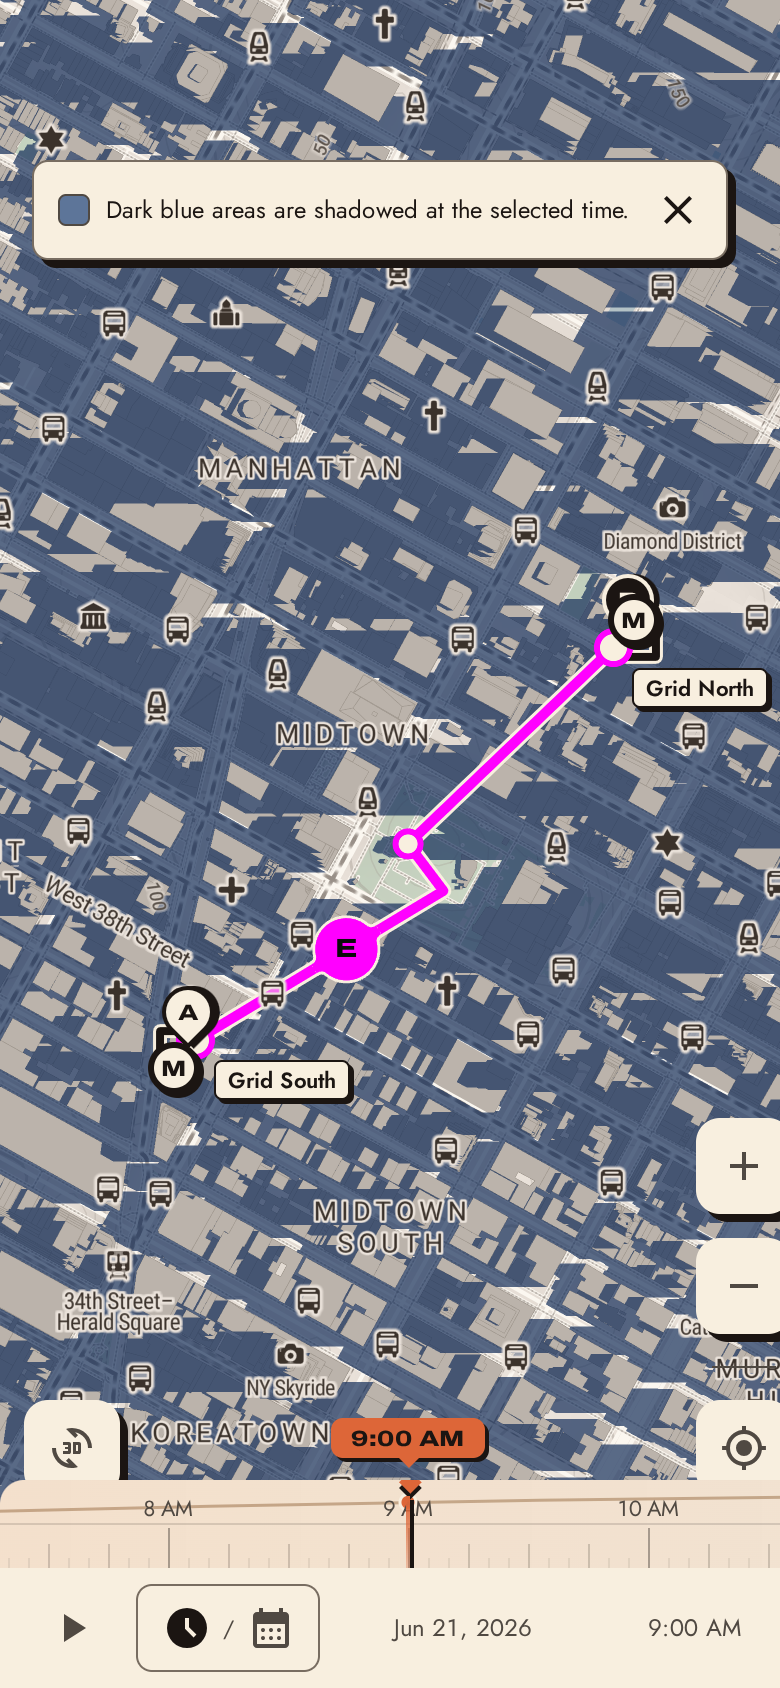
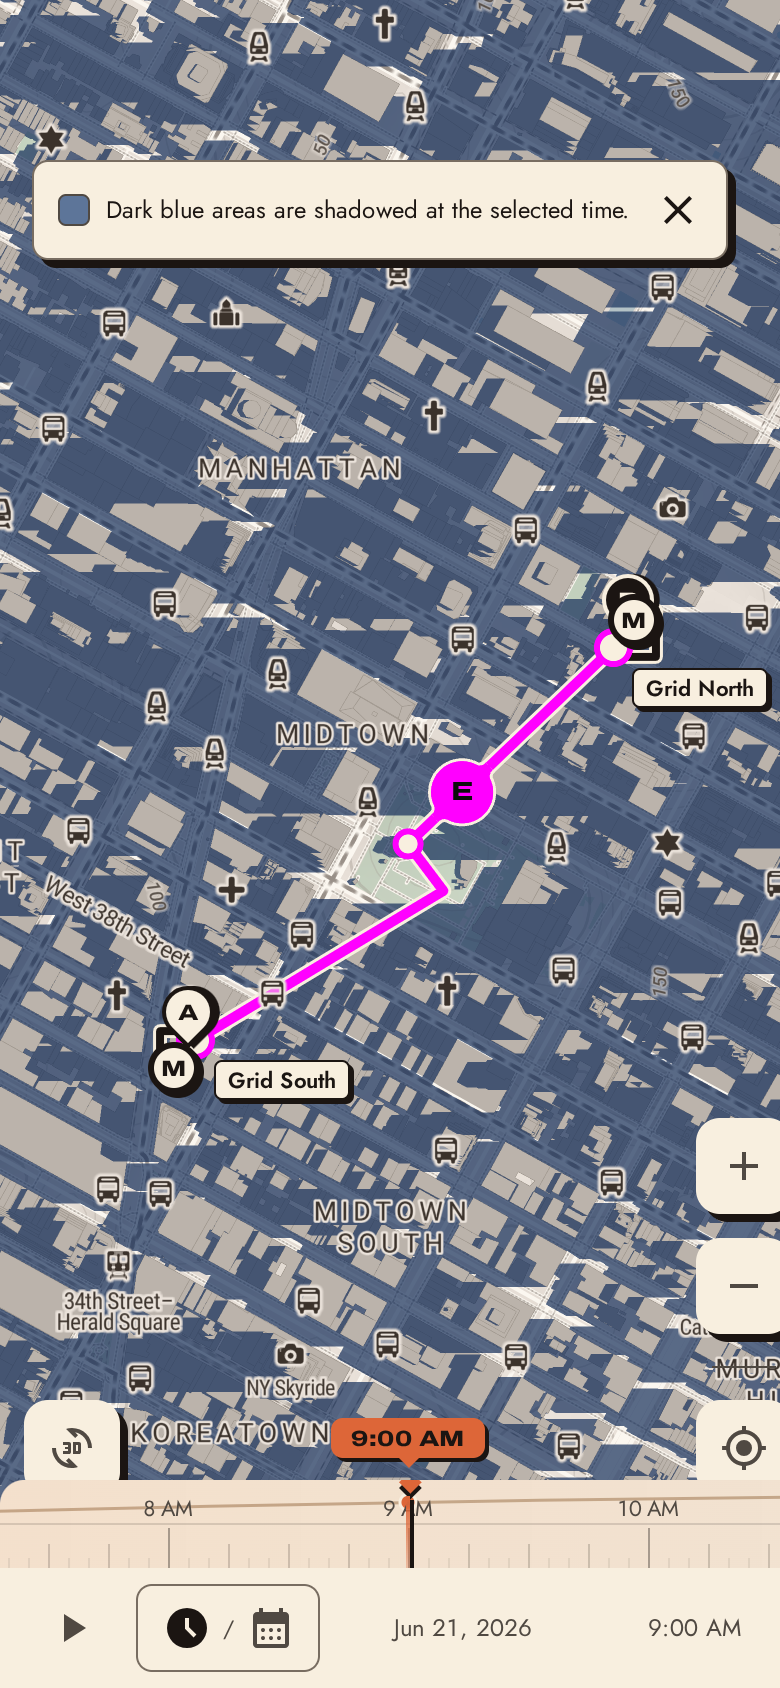
fix(design): #149 verify — weld masked to the ride as drawn (exact ends, tilt), resting clear of sharp turns, only nearby stops per frame

diff --git a/app/components/lineCoinMarker.ts b/app/components/lineCoinMarker.ts
@@ -4,15 +4,17 @@ import {
   COIN_FRICTION,
   COIN_RADIUS,
   coast,
+  distanceAlong,
   distanceAt,
   type LineBadgePlacement,
   pointAtDistance,
   restingGap,
   rideLength,
+  rideWindow,
   rubberBand,
   snapToPath,
+  sharpTurns,
   springStep,
-  stopDistances,
   weldOutline,
 } from "../lib/lineBadges";
 import { lineCoinElement } from "./mapPins";
@@ -31,10 +33,8 @@ const STOP_CLEARANCE_PX = COIN_RADIUS + 10;
 const GRIP_IN_MS = 120;
 const GRIP_OUT_MS = 150;
 
-/** Metres per screen pixel at a latitude and zoom (512px maplibre tiles). */
-function metresPerPixel(map: maplibregl.Map, lat: number): number {
-  return (40_075_016.686 * Math.cos((lat * Math.PI) / 180)) / (512 * 2 ** map.getZoom());
-}
+/** How far around the coin (px along the ride) the weld can reach, and so its mask must cover. */
+const REACH_PX = 80;
 
 function prefersReducedMotion(): boolean {
   return typeof window !== "undefined" && !!window.matchMedia?.("(prefers-reduced-motion: reduce)").matches;
@@ -80,10 +80,15 @@ export function attachLineCoin(
 ): { remove: () => void } {
   const { coords } = placement;
   const length = rideLength(coords);
-  const stopsAlong = stopDistances(coords, stops.map((st) => st.at));
+  // This ride's own stops, with where along it each lies; other rides' stops are not its concern.
+  const rideStops = stops
+    .map((st) => ({ ...st, d: distanceAlong(coords, st.at) }))
+    .filter((st): st is LineCoinStop & { d: number } => st.d !== null);
+  // A resting coin keeps clear of stops, and of sharp turns, where a straight weld would leave the line.
+  const keepClear = [...rideStops.map((st) => st.d), ...sharpTurns(coords)].sort((a, b) => a - b);
   const still = prefersReducedMotion();
   const parts = lineCoinElement(placement.line, placement.color);
-  const [clip, mask] = [parts.defs.children[0], parts.defs.children[1]] as [SVGClipPathElement, SVGMaskElement];
+  const mask = parts.defs.children[0] as SVGMaskElement;
   let s = (fraction ?? 0.5) * length;
   // Along-ride velocity (m/ms); off-line offset (px) and its velocity (px/ms); grip 0–1.
   let v = 0;
@@ -99,7 +104,13 @@ export function attachLineCoin(
   const marker = new maplibregl.Marker({ element: parts.host, anchor: "center", draggable: true, subpixelPositioning: true })
     .setLngLat(pointAtDistance(coords, s))
     .addTo(map);
-  const mpp = () => metresPerPixel(map, marker.getLngLat().lat);
+  /** Metres per screen px along the ride at the coin, measured on screen, so tilt is honoured. */
+  const mpp = () => {
+    const step = Math.min(10, length / 2) || 1;
+    const a = map.project(pointAtDistance(coords, Math.min(s, length - step)));
+    const b = map.project(pointAtDistance(coords, Math.min(s, length - step) + step));
+    return step / (Math.hypot(b.x - a.x, b.y - a.y) || 1);
+  };
   // The coin's centre relative to the line, along the line's normal on the pulled side.
   let coinAt = { x: 0, y: 0 };
 
@@ -108,7 +119,8 @@ export function attachLineCoin(
     const here = pointAtDistance(coords, s);
     marker.setLngLat(here);
     const F = map.project(here);
-    const step = Math.min(8 * mpp(), length / 2);
+    const scale = mpp();
+    const step = Math.min(8 * scale, length / 2);
     const a = map.project(pointAtDistance(coords, s - step));
     const b = map.project(pointAtDistance(coords, s + step));
     const len = Math.hypot(b.x - a.x, b.y - a.y) || 1;
@@ -126,22 +138,25 @@ export function attachLineCoin(
     parts.disc.setAttribute("cy", coinAt.y.toFixed(2));
     parts.grip.style.transform = `translate(${coinAt.x.toFixed(2)}px, ${coinAt.y.toFixed(2)}px)`;
 
-    // Clip to the ride's extent, so the weld never pokes past its start or end;
-    // the coin's own circle is kept whole.
-    const toStart = s / mpp();
-    const toEnd = (length - s) / mpp();
-    const box = [[-toStart, -80], [toEnd, -80], [toEnd, 80], [-toStart, 80]].map((p) => toScreen(p as Pt));
-    clip.innerHTML =
-      `<polygon points="${box.map((p) => p.map((v2) => v2.toFixed(2)).join(",")).join(" ")}"/>` +
-      `<circle cx="${coinAt.x.toFixed(2)}" cy="${coinAt.y.toFixed(2)}" r="${COIN_RADIUS + 2}"/>`;
-    // Cut the weld away around nearby stops: the map's stop and line lie beneath
-    // any DOM overlay, so the stop must show through rather than be painted over.
-    const holes = stops
-      .map((st) => ({ p: map.project(st.at), r: st.radius + 1 }))
-      .filter(({ p }) => Math.hypot(p.x - F.x, p.y - F.y) < 80 + COIN_RADIUS)
-      .map(({ p, r }) => `<circle cx="${(p.x - F.x).toFixed(2)}" cy="${(p.y - F.y).toFixed(2)}" r="${r}" fill="black"/>`)
+    // Mask the weld to the ride as drawn on screen — a wide band along its real path,
+    // cut square at its real ends, so it never pokes past the start or the end, tilt
+    // and curves included — and cut it away around this ride's nearby stops, since
+    // the map's stop and line lie under any DOM overlay. The coin's own circle stays.
+    const reach = REACH_PX * scale;
+    const band = rideWindow(coords, s - reach, s + reach)
+      .map((q) => map.project(q))
+      .map((q) => `${(q.x - F.x).toFixed(2)},${(q.y - F.y).toFixed(2)}`)
+      .join("L");
+    const holes = rideStops
+      .filter((st) => Math.abs(st.d - s) < reach + COIN_RADIUS * scale)
+      .map((st) => {
+        const q = map.project(st.at);
+        return `<circle cx="${(q.x - F.x).toFixed(2)}" cy="${(q.y - F.y).toFixed(2)}" r="${st.radius + 1}" fill="black"/>`;
+      })
       .join("");
-    mask.innerHTML = `<rect x="-200" y="-200" width="400" height="400" fill="white"/>${holes}`;
+    mask.innerHTML =
+      `<path d="M${band}" fill="none" stroke="white" stroke-width="${2 * REACH_PX}" stroke-linecap="butt" stroke-linejoin="round"/>` +
+      `<circle cx="${coinAt.x.toFixed(2)}" cy="${coinAt.y.toFixed(2)}" r="${COIN_RADIUS + 2}" fill="white"/>${holes}`;
   };
 
   const stop = () => {
@@ -155,7 +170,7 @@ export function attachLineCoin(
     stop();
     if (still) {
       off = { x: 0, y: 0 };
-      const clear = restingGap(s, stopsAlong, length, STOP_CLEARANCE_PX * mpp());
+      const clear = restingGap(s, keepClear, length, STOP_CLEARANCE_PX * mpp());
       if (clear !== null) s = clear;
       render();
       rest();
@@ -189,7 +204,7 @@ export function attachLineCoin(
         settleTo = null;
       }
       render();
-      const clear = restingGap(s, stopsAlong, length, STOP_CLEARANCE_PX * mpp());
+      const clear = restingGap(s, keepClear, length, STOP_CLEARANCE_PX * mpp());
       if (clear !== null) {
         // A coast covers v0 / friction in all, so aim a short slide at the clear point.
         settleTo = clear;

diff --git a/app/lib/lineBadges.ts b/app/lib/lineBadges.ts
@@ -205,20 +205,62 @@ function toLocal(origin: [number, number], p: [number, number]): [number, number
  * than `toleranceM` from the track belong to another ride and are left out.
  */
 export function stopDistances(coords: [number, number][], stops: [number, number][], toleranceM = 25): number[] {
-  if (coords.length === 0) return [];
+  return stops
+    .map((stop) => distanceAlong(coords, stop, toleranceM))
+    .filter((d): d is number => d !== null)
+    .sort((x, y) => x - y);
+}
+
+/** How far along a ride a point lies, in metres; `null` when it is more than `toleranceM` off the track. */
+export function distanceAlong(coords: [number, number][], point: [number, number], toleranceM = 25): number | null {
+  if (coords.length === 0) return null;
   const origin = coords[0];
   const path = coords.map((c) => toLocal(origin, c));
-  const out: number[] = [];
-  for (const stop of stops) {
-    const p = toLocal(origin, stop);
-    const snap = snapToPath(path, p);
-    if (!snap) continue;
-    const a = path[snap.index];
-    const b = path[Math.min(snap.index + 1, path.length - 1)];
-    const at = [a[0] + (b[0] - a[0]) * snap.t, a[1] + (b[1] - a[1]) * snap.t];
-    if (Math.hypot(p[0] - at[0], p[1] - at[1]) <= toleranceM) out.push(distanceAt(coords, snap.index, snap.t));
+  const p = toLocal(origin, point);
+  const snap = snapToPath(path, p);
+  if (!snap) return null;
+  const a = path[snap.index];
+  const b = path[Math.min(snap.index + 1, path.length - 1)];
+  const at = [a[0] + (b[0] - a[0]) * snap.t, a[1] + (b[1] - a[1]) * snap.t];
+  return Math.hypot(p[0] - at[0], p[1] - at[1]) <= toleranceM ? distanceAt(coords, snap.index, snap.t) : null;
+}
+
+/**
+ * The stretch of a ride between two distances along it, as [lng, lat] points:
+ * the end points interpolated, every vertex between kept. What the coin's weld
+ * is masked to, so it follows the ride as drawn and stops square at its ends.
+ */
+export function rideWindow(coords: [number, number][], from: number, to: number): [number, number][] {
+  const length = rideLength(coords);
+  const [lo, hi] = [Math.max(0, Math.min(from, to)), Math.min(length, Math.max(from, to))];
+  const out: [number, number][] = [pointAtDistance(coords, lo)];
+  let d = 0;
+  for (let i = 0; i < coords.length - 1; i++) {
+    d += metres(coords[i], coords[i + 1]);
+    if (d > lo && d < hi) out.push(coords[i + 1]);
   }
-  return out.sort((x, y) => x - y);
+  out.push(pointAtDistance(coords, hi));
+  return out;
+}
+
+/**
+ * Where a ride turns sharply (more than `minTurnDeg` at a vertex), as distances
+ * along it. The weld is laid straight along the line, so on such a turn its arms
+ * would leave the drawn line; a resting coin keeps clear of these as of stops.
+ */
+export function sharpTurns(coords: [number, number][], minTurnDeg = 25): number[] {
+  const out: number[] = [];
+  let d = 0;
+  for (let i = 1; i < coords.length - 1; i++) {
+    d += metres(coords[i - 1], coords[i]);
+    const [a, b, c] = [toLocal(coords[i], coords[i - 1]), [0, 0], toLocal(coords[i], coords[i + 1])];
+    const inA = Math.atan2(b[1] - a[1], b[0] - a[0]);
+    const outA = Math.atan2(c[1] - b[1], c[0] - b[0]);
+    let turn = Math.abs(outA - inA);
+    if (turn > Math.PI) turn = 2 * Math.PI - turn;
+    if ((turn * 180) / Math.PI > minTurnDeg) out.push(d);
+  }
+  return out;
 }
 
 /**

diff --git a/app/lib/__tests__/lineBadges.test.ts b/app/lib/__tests__/lineBadges.test.ts
@@ -4,9 +4,12 @@ import {
   LINE_HALF_WIDTH,
   bulbFillets,
   coast,
+  distanceAlong,
   distanceAt,
   restingGap,
+  rideWindow,
   rubberBand,
+  sharpTurns,
   springStep,
   stopDistances,
   weldOutline,
@@ -115,7 +118,7 @@ describe("weldOutline", () => {
     }
     // The casing edges carry no end cap: each runs along one side only.
     expect(edges[0].every(([, y]) => y >= LINE_HALF_WIDTH - 1e-9)).toBe(true);
-    expect(edges[1].every(([, y]) => y <= LINE_HALF_WIDTH)).toBe(true);
+    expect(edges[1].every(([, y]) => y <= -LINE_HALF_WIDTH + 1e-9)).toBe(true);
   });
 });
 
@@ -185,5 +188,33 @@ describe("springStep", () => {
 
   it("survives a long frame without blowing up", () => {
     expect(Math.abs(springStep(10, 0, 500).x)).toBeLessThan(10);
+  });
+});
+
+describe("the weld's mask helpers", () => {
+  const km = 1000 / 111_195;
+  // North 1 km, then a right angle east 1 km.
+  const east = km / Math.cos((40.7 * Math.PI) / 180);
+  const ride: [number, number][] = [[-73.98, 40.7], [-73.98, 40.7 + km], [-73.98 + east, 40.7 + km]];
+
+  it("cuts a window of the ride that follows its turns and stops at its real ends", () => {
+    const win = rideWindow(ride, 900, 1100);
+    expect(win).toHaveLength(3);
+    expect(win[1]).toEqual(ride[1]);
+    expect(win[0][1]).toBeCloseTo(40.7 + 0.9 * km, 6);
+    // Past either end it clamps to the end, never extending the ride.
+    expect(rideWindow(ride, -50, 100)[0]).toEqual(ride[0]);
+    expect(rideWindow(ride, 1900, 2500).at(-1)).toEqual(ride[2]);
+  });
+
+  it("knows where along a ride a stop lies, and that another ride's stop is not on it", () => {
+    expect(distanceAlong(ride, [-73.98, 40.7 + 0.5 * km])).toBeCloseTo(500, -1);
+    expect(distanceAlong(ride, [-73.95, 40.7])).toBeNull();
+  });
+
+  it("finds the sharp turns a resting coin should keep clear of, not the gentle ones", () => {
+    expect(sharpTurns(ride).map((d) => Math.round(d / 10) * 10)).toEqual([1000]);
+    const gentle: [number, number][] = [[-73.98, 40.7], [-73.98, 40.7 + km], [-73.98 + east * 0.2, 40.7 + 2 * km]];
+    expect(sharpTurns(gentle)).toEqual([]);
   });
 });

diff --git a/app/components/mapPins.ts b/app/components/mapPins.ts
@@ -49,9 +49,9 @@ export function mapPinElement(variant: MapPinVariant, label: string, text = ""):
 export interface LineCoinParts {
   /** The marker element: a zero-size anchor on the line where the coin sits. */
   host: HTMLDivElement;
-  /** The weld's clip (the ride's extent) and stop mask live here. */
+  /** The weld's mask lives here: the ride as drawn, minus the stops on it. */
   defs: SVGDefsElement;
-  /** The welded joint's group: masked around stops, clipped to the ride. */
+  /** The welded joint's group, masked to the ride and away from its stops. */
   joint: SVGGElement;
   casing: SVGPathElement;
   fill: SVGPathElement;
@@ -95,9 +95,8 @@ export function lineCoinElement(line: string, color: string): LineCoinParts {
   const svg = make("svg", { width: "160", height: "160", viewBox: "-80 -80 160 160", "aria-hidden": "true" });
   svg.style.cssText = "position:absolute;left:-80px;top:-80px;overflow:visible;pointer-events:none;";
   const defs = make("defs", {});
-  defs.appendChild(make("clipPath", { id: `${id}-ride` }));
-  defs.appendChild(make("mask", { id: `${id}-stops`, maskUnits: "userSpaceOnUse", x: "-200", y: "-200", width: "400", height: "400" }));
-  const joint = make("g", { "clip-path": `url(#${id}-ride)`, mask: `url(#${id}-stops)`, "data-part": "joint" });
+  defs.appendChild(make("mask", { id: `${id}-ride`, maskUnits: "userSpaceOnUse", x: "-200", y: "-200", width: "400", height: "400" }));
+  const joint = make("g", { mask: `url(#${id}-ride)`, "data-part": "joint" });
   const casing = make("path", {
     fill: "none", stroke: "var(--color-map-casing)", "stroke-width": "3",
     "stroke-linecap": "butt", "stroke-linejoin": "round", "data-part": "casing",

diff --git a/app/components/__tests__/mapPins.test.ts b/app/components/__tests__/mapPins.test.ts
@@ -18,9 +18,8 @@ describe("lineCoinElement", () => {
     expect(disc.getAttribute("fill")).toBe("#FCCC0A");
     expect(disc.getAttribute("r")).toBe(String(COIN_RADIUS));
     expect(casing.getAttribute("stroke")).toBe("var(--color-map-casing)");
-    // The weld is masked around stops and clipped to the ride; the disc is neither.
-    expect(joint.getAttribute("mask")).toMatch(/^url\(#line-coin-\d+-stops\)$/);
-    expect(joint.getAttribute("clip-path")).toMatch(/^url\(#line-coin-\d+-ride\)$/);
+    // The weld is masked to the ride and away from its stops; the disc is not.
+    expect(joint.getAttribute("mask")).toMatch(/^url\(#line-coin-\d+-ride\)$/);
     expect(disc.parentElement).not.toBe(joint);
   });
 

diff --git a/docs/tracks/TRACK_R.md b/docs/tracks/TRACK_R.md
@@ -38,9 +38,12 @@ inspiration; the public mirror publishes everything here.
   redraws the weld each frame in the line's on-screen direction (rotation and tilt
   included); the marker is a zero-size anchor on the line with `subpixelPositioning` (no
   half-pixel seam) and a 44px grip riding on the coin. Because the map's stops and line lie
-  under any DOM overlay, the weld is masked away around every stop (its drawn radius from
-  `MapView`) and clipped at the ride's ends; the coin's disc stays unmasked so a dragged coin
-  passes in front of a stop. Motion is unchanged from the coin round except friction: the
+  under any DOM overlay, the weld is masked to the ride as drawn on screen (`rideWindow`, a
+  wide band cut square at the ride's real ends, tilt included) and away from this ride's
+  nearby stops (their drawn radius from `MapView`); the coin's disc stays unmasked so a
+  dragged coin passes in front of a stop. Scale is measured on screen at the coin, and a
+  resting coin keeps clear of sharp turns (`sharpTurns`) as of stops, since the weld is laid
+  straight along the line. Motion is unchanged from the coin round except friction: the
   time slider's 0.009/ms plus 5% (`COIN_FRICTION` 0.00945, owner's tuning). Stops are ringed
   in their line's colour, board/exit a size up and named beside the ride; a resting coin slides
   clear of any stop; the terminus is not shown. DOM only for coin and names, never the canvas
@@ -106,7 +109,7 @@ inspiration; the public mirror publishes everything here.
   bullets keep each line's published colour (N yellow, L grey) so cards match the map.
   Still open from R4b: hollow A/filled B swap at night; the opaque night route covers labels.
 - **Next action:** R6 — timeline and sheet (#138), after #149's review. #126 keeps its SettingsPanel/SaveRouteModal half.
-- **Last verified (#149):** 2026-09-30 on Node 24; lint (0 errors), typecheck, 1,782 unit tests,
+- **Last verified (#149):** 2026-09-30 on Node 24; lint (0 errors), typecheck, 1,785 unit tests,
   build, design:check and e2e 16/16. The weld was checked on the live day and night maps at rest
   and mid-pull; a real-phone feel check is outstanding.
 - **Last verified (R5b):** 2026-09-30 on Node 24; lint (0 errors), typecheck, 1,753 unit
